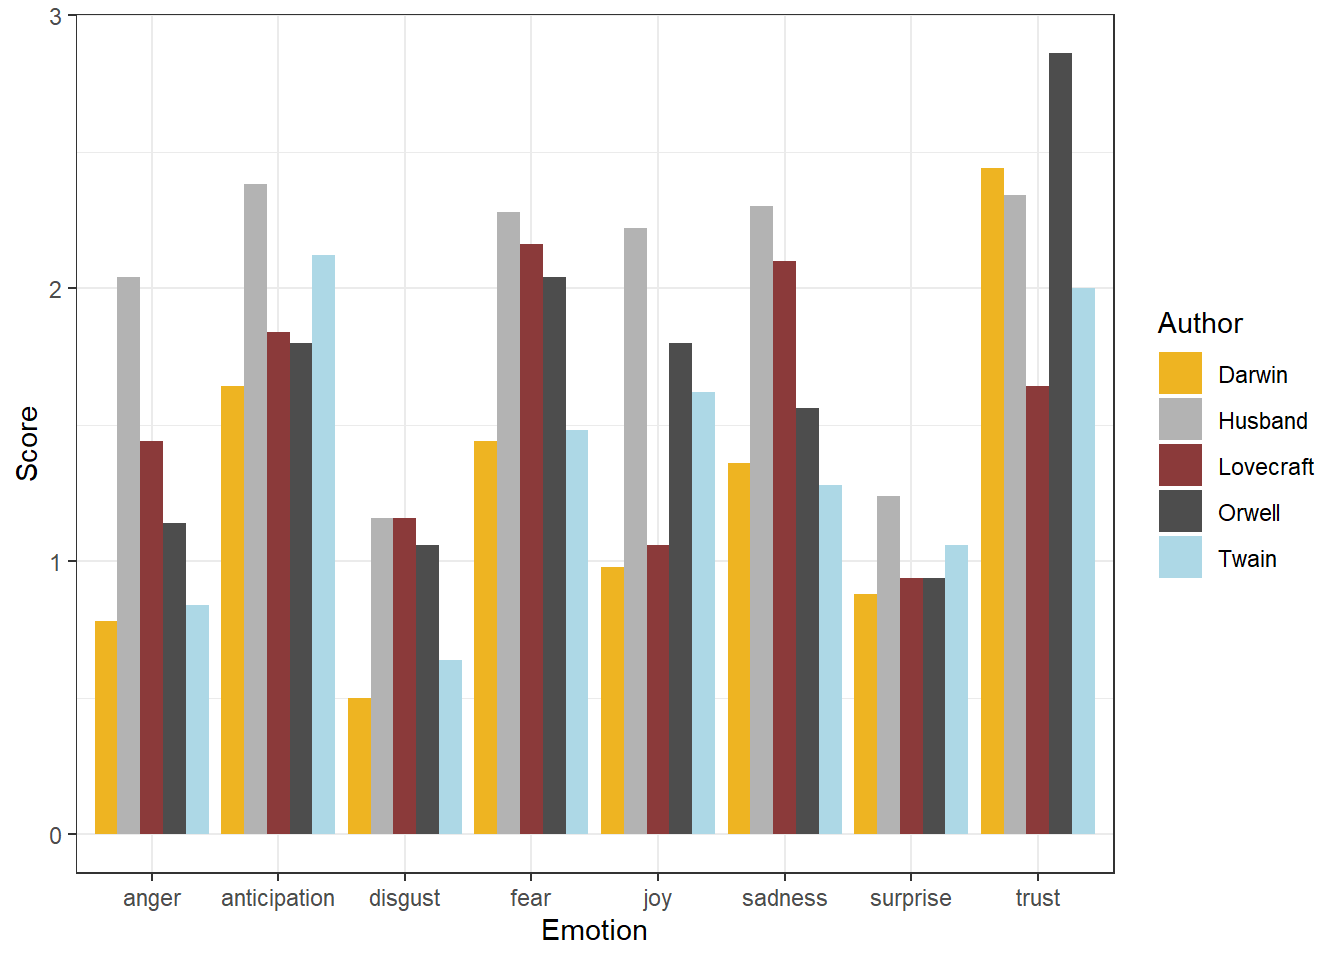
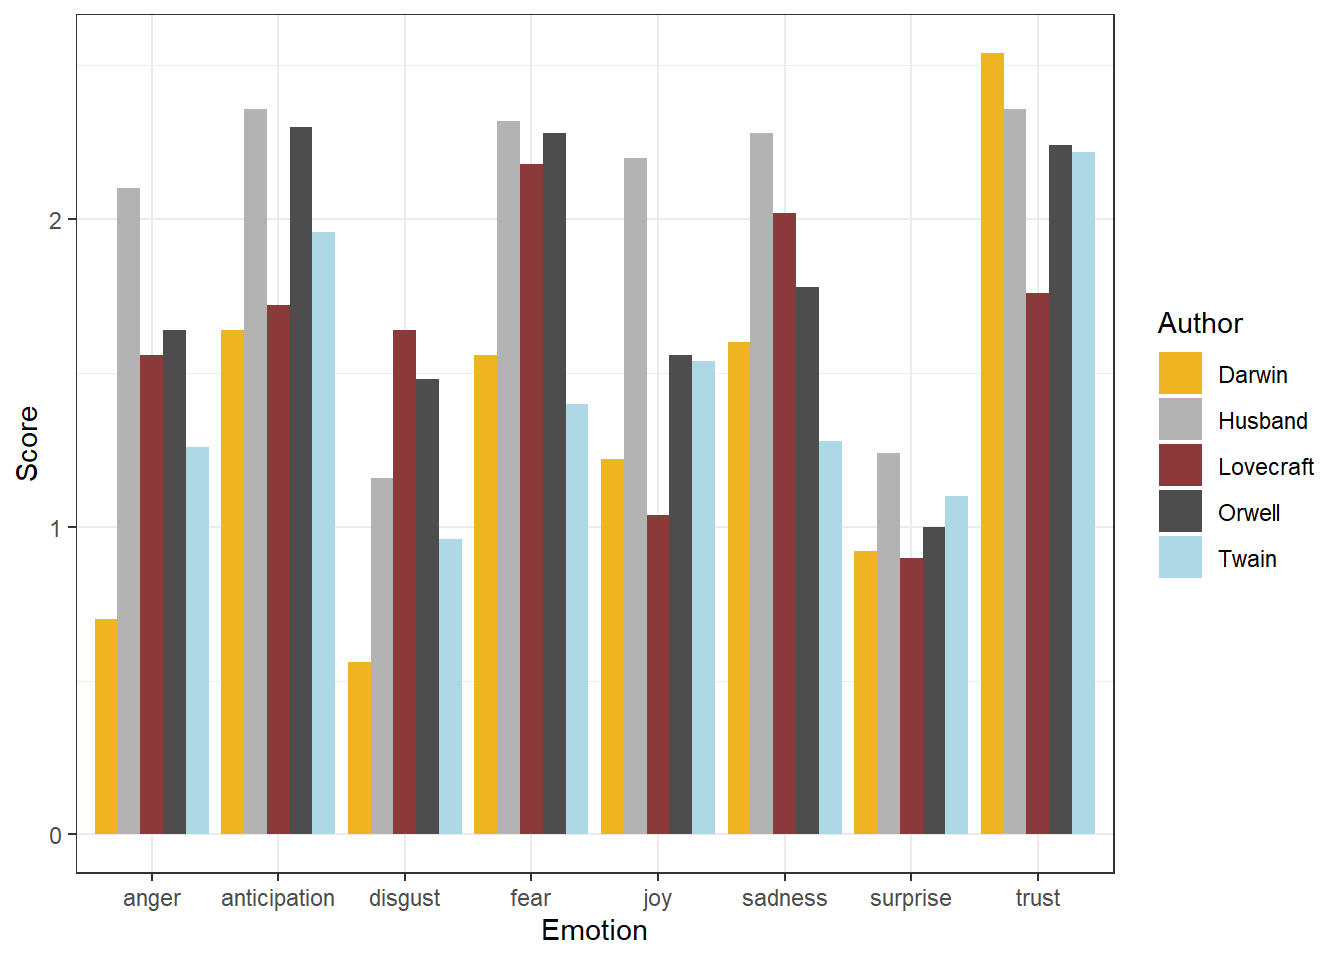
201907124

diff --git a/textanalysis.html b/textanalysis.html
@@ -807,6 +807,162 @@ head(darwin2gramsdf)</code></pre>
 ## 48173    on the       744
 ## 30694 have been       624</code></pre>
 <p>Both N-grams and collocations are not only an important concept in language teaching but they are also fundamental in Text Analysis and many other research areas working with language data. Unfortunately, words that collocate do not have to be immediately adjacent but can also encompass several slots. This is unfortunate because it makes retrieval of collocates substantially more difficult compared with a situation in which we only need to extract words that occur right next to each other.</p>
+<p>In the follwoing, we will extract collocations from Darwin’s “Origin”. In a first step, we will split the Origin into smaller chunks.</p>
+<pre class="r"><code># read in text
+darwinsentences &lt;- readLines(&quot;https://slcladal.github.io/data/origindarwin.txt&quot;) %&gt;%
+  paste(sep = &quot; &quot;, collapse = &quot; &quot;) %&gt;%
+  str_replace_all(&quot; {2,}&quot;, &quot; &quot;) %&gt;%
+  str_replace_all(&quot;([A-Z]{2,} [A-Z]{2,}) ([A-Z][a-z]{1,} )&quot;, &quot;\\1 qwertz\\2&quot;) %&gt;%
+  str_replace_all(&quot;([a-z]{2,}\\.) ([A-Z] {0,1}[a-z]{0,30})&quot;, &quot;\\1qwertz\\2&quot;) %&gt;%
+    str_replace_all(&quot;([a-z]{2,}\\?) ([A-Z] {0,1}[a-z]{0,30})&quot;, &quot;\\1qwertz\\2&quot;) %&gt;%
+  strsplit(&quot;qwertz&quot;)%&gt;%
+  unlist()
+# inspect data
+head(darwinsentences)</code></pre>
+<pre><code>## [1] &quot;THE ORIGIN OF SPECIES BY CHARLES DARWIN AN HISTORICAL SKETCH OF THE PROGRESS OF OPINION ON THE ORIGIN OF SPECIES INTRODUCTION &quot;                                                                                                                                                
+## [2] &quot;When on board H.M.S. &#39;Beagle,&#39; as naturalist, I was much struck with certain facts in the distribution of the organic beings in- habiting South America, and in the geological relations of the present to the past inhabitants of that continent.&quot;                            
+## [3] &quot;These facts, as will be seen in the latter chapters of this volume, seemed to throw some light on the origin of species — that mystery of mysteries, as it has been called by one of our greatest philosophers.&quot;                                                               
+## [4] &quot;On my return home, it occurred to me, in 1837, that something might perhaps be made out on this question by patiently accumulating and reflecting on all sorts of facts which could possibly have any bearing on it.&quot;                                                          
+## [5] &quot;After five years&#39; work I allowed myself to specu- late on the subject, and drew up some short notes; these I enlarged in 1844 into a sketch of the conclusions, which then seemed to me probable; from that period to the present day I have steadily pursued the same object.&quot;
+## [6] &quot;I hope that I may be excused for entering on these personal details, as I give them to show that I have not been hasty in coming to a decision.&quot;</code></pre>
+<p>In a next setp, we will create a matrix that shows cooccurrence of words.</p>
+<pre class="r"><code># convert into corpus
+darwincorpus &lt;- Corpus(VectorSource(darwinsentences))
+# clean corpus
+darwincorpusclean &lt;- darwincorpus %&gt;%
+  tm_map(removePunctuation) %&gt;%
+  tm_map(removeWords, stopwords(kind = &quot;en&quot;)) %&gt;%
+  tm_map(tolower)
+# create document term matrix
+darwindtm &lt;- DocumentTermMatrix(darwincorpusclean, control=list(bounds = list(global=c(1, Inf)), weighting = weightBin))
+# load library
+require(Matrix)
+# convert dtm into sparse matrix
+darwinsdtm &lt;- sparseMatrix(i = darwindtm$i, j = darwindtm$j, 
+                           x = darwindtm$v, 
+                           dims = c(darwindtm$nrow, darwindtm$ncol),
+                           dimnames = dimnames(darwindtm))
+# calculate cooccurrence counts
+coocurrences &lt;- t(darwinsdtm) %*% darwinsdtm
+# convert into matrix
+collocates &lt;- as.matrix(coocurrences)
+# inspect results
+collocates[1:8, 1:5]</code></pre>
+<pre><code>##              charles darwin historical introduction opinion
+## charles            9      1          1            1       1
+## darwin             1      1          1            1       1
+## historical         1      1          4            1       1
+## introduction       1      1          1            7       1
+## opinion            1      1          1            1      10
+## origin             1      1          2            2       1
+## progress           1      1          1            1       1
+## sketch             1      1          1            1       1</code></pre>
+<pre class="r"><code># inspect size of matrix
+ncol(collocates)</code></pre>
+<pre><code>## [1] 10634</code></pre>
+<pre class="r"><code>summary(rowSums(collocates))</code></pre>
+<pre><code>##    Min. 1st Qu.  Median    Mean 3rd Qu.    Max. 
+##     1.0    25.0    49.0   221.9   135.0 28133.0</code></pre>
+<pre class="r"><code># remove terms that do not collocate with other terms
+noncoll &lt;- colnames(collocates)[which(rowSums(collocates) &lt; 5000)]
+# remove non-collocating terms
+collocates &lt;- collocates[!rownames(collocates) %in% noncoll, ]
+collocates &lt;- collocates[, !colnames(collocates) %in% noncoll]
+# create distance matrix
+distmtx &lt;- dist(collocates)
+# activate library
+library(&quot;cluster&quot;)         # activate library
+clustertexts &lt;- hclust(    # hierarchical cluster object
+  distmtx,                 # use data diststudents
+  method=&quot;ward.D2&quot;)         # ward.D as linkage method
+plot(clustertexts,         # plot result as dendrogram
+     hang = .25,           # labels at split
+     main = &quot;&quot;)            # no title</code></pre>
+<p><img src="textanalysis_files/figure-html/coll7-1.png" width="672" /></p>
+<p>We will now use an example of one individual word to show, how collocation strength for individual terms is calculated and displayed as a network.</p>
+<pre class="r"><code># load function for co-occurrence calculation
+source(&quot;rscripts/calculateCoocStatistics.R&quot;)
+# define minimum number of cooccurences
+numberOfCoocs &lt;- 10
+# define term
+coocTerm &lt;- &quot;selection&quot;
+# calculate cooccurence statistics
+coocs &lt;- calculateCoocStatistics(coocTerm, darwinsdtm, measure=&quot;LOGLIK&quot;)
+# show strenght of cooccurence
+print(coocs[1:numberOfCoocs])</code></pre>
+<pre><code>##       natural        theory    variations       effects          acts 
+##    1476.38620     121.48373     112.17318      66.45145      51.64986 
+## modifications        sexual         power        slight        disuse 
+##      45.69396      44.95857      43.80820      42.97196      41.69089</code></pre>
+<p>Now, we will vizualize the collocation network for our example term. Unfortunately, creating a graph object is rather complex.</p>
+<pre class="r"><code># create graph object
+resultGraph &lt;- data.frame(from = character(), to = character(), sig = numeric(0))
+# create data frame
+tmpGraph &lt;- data.frame(from = character(), to = character(), sig = numeric(0))
+# fill data frame to produce the correct number of lines
+tmpGraph[1:numberOfCoocs, 3] &lt;- coocs[1:numberOfCoocs]
+# enter search word into the first column in all lines
+tmpGraph[, 1] &lt;- coocTerm
+# enter co-occurrences into second column
+tmpGraph[, 2] &lt;- names(coocs)[1:numberOfCoocs]
+# enter collocation strength
+tmpGraph[, 3] &lt;- coocs[1:numberOfCoocs]
+# attach data frame to resultGraph
+resultGraph &lt;- rbind(resultGraph, tmpGraph)</code></pre>
+<pre class="r"><code># iterate over most significant numberOfCoocs co-occurrences
+for (i in 1:numberOfCoocs){
+  # calculate co-occurrence strength for term i
+  newCoocTerm &lt;- names(coocs)[i]
+  coocs2 &lt;- calculateCoocStatistics(newCoocTerm, darwinsdtm, measure=&quot;LOGLIK&quot;)
+  # fill temporary graph object
+  tmpGraph &lt;- data.frame(from = character(), to = character(), sig = numeric(0))
+  tmpGraph[1:numberOfCoocs, 3] &lt;- coocs2[1:numberOfCoocs]
+  tmpGraph[, 1] &lt;- newCoocTerm
+  tmpGraph[, 2] &lt;- names(coocs2)[1:numberOfCoocs]
+  tmpGraph[, 3] &lt;- coocs2[1:numberOfCoocs]
+  # append results to the result graph data frame
+  resultGraph &lt;- rbind(resultGraph, tmpGraph[2:length(tmpGraph[, 1]), ])
+}</code></pre>
+<p>Now, we can create a network graph object.</p>
+<pre class="r"><code># load packages
+library(igraph)
+# define graph and type (&quot;F&quot; means &quot;Force Directed&quot;)
+graphNetwork &lt;- graph.data.frame(resultGraph, directed = F)
+# identify nodes with fewer than 2 edges
+graphVs &lt;- V(graphNetwork)[degree(graphNetwork) &lt; 2]
+# removed these edges from graph
+graphNetwork &lt;- delete.vertices(graphNetwork, graphVs) 
+# sssign colors to edges and nodes (searchterm blue, rest orange)
+V(graphNetwork)$color &lt;- ifelse(V(graphNetwork)$name == coocTerm, &#39;cornflowerblue&#39;, &#39;orange&#39;) 
+# Edges with a significance of at least 50% of the maximum significance in the graph are drawn in orange
+halfMaxSig &lt;- max(E(graphNetwork)$sig) * 0.5
+E(graphNetwork)$color &lt;- ifelse(E(graphNetwork)$sig &gt; halfMaxSig, &quot;coral&quot;, &quot;azure3&quot;)
+# disable edges with radius
+E(graphNetwork)$curved &lt;- 0 
+# size the nodes by their degree of networking
+V(graphNetwork)$size &lt;- log(degree(graphNetwork)) * 5
+# all nodes must be assigned a standard minimum-size
+V(graphNetwork)$size[V(graphNetwork)$size &lt; 5] &lt;- 3 
+# edge thickness
+E(graphNetwork)$width &lt;- 1.5</code></pre>
+<p>And finally, we can vizualize the network.</p>
+<pre class="r"><code># Define the frame and spacing for the plot
+par(mai=c(0,0,1,0)) 
+# Finaler Plot
+plot(graphNetwork,              
+     layout = layout.fruchterman.reingold,  # Force Directed Layout 
+     main = paste(&quot;Cooccurrence network for&quot;, &quot; \&quot;&quot;, coocTerm, &quot;\&quot;&quot;),
+     vertex.label.family = &quot;sans&quot;,
+     vertex.label.cex = .75,
+     vertex.shape = &quot;circle&quot;,
+     vertex.label.dist = 2,           # Labels of the nodes moved slightly
+     vertex.frame.color = &#39;darkolivegreen&#39;,
+     vertex.label.color = &#39;black&#39;,      # Color of node names
+     vertex.label.font = 2,         # Font of node names
+     vertex.label = V(graphNetwork)$name,       # node names
+     vertex.label.cex = .75 # font size of node names 
+)</code></pre>
+<p><img src="textanalysis_files/figure-html/coll12-1.png" width="672" /></p>
 </div>
 <div id="tagging-and-annotation" class="section level1">
 <h1><span class="header-section-number">6</span> Tagging and Annotation</h1>
@@ -828,8 +984,9 @@ text &lt;- text[5] %&gt;%
 # inspect data
 str(text)</code></pre>
 <pre><code>##  chr &quot;By chance, Harry encounters the man who gave him the book, just as the man has attended a funeral. He inquires &quot;| __truncated__</code></pre>
-<pre class="r"><code># load libraries
+<pre class="r"><code># load function
 source(&quot;https://slcladal.github.io/rscripts/POStagObject.r&quot;) # for pos-tagging objects in R
+# load libraries
 library(NLP)
 library(openNLP)
 library(openNLPmodels.en)
@@ -1093,14 +1250,14 @@ husbandemo &lt;- get_nrc_sentiment(husband)
 # inspect data
 head(darwinemo)</code></pre>
 <pre><code>##   anger anticipation disgust fear joy sadness surprise trust negative
-## 1     0            0       0    0   0       0        0     0        0
+## 1     0            1       0    0   0       0        0     0        0
 ## 2     0            0       0    0   0       0        0     0        0
 ## 3     0            0       0    0   0       0        0     0        0
 ## 4     0            0       0    0   0       0        0     0        0
 ## 5     0            0       0    0   0       0        0     0        0
 ## 6     0            0       0    0   0       0        0     0        0
 ##   positive
-## 1        0
+## 1        1
 ## 2        0
 ## 3        0
 ## 4        0
@@ -1122,17 +1279,17 @@ rownames(emo) &lt;- gsub(&quot;emos&quot;, &quot;&quot;, rownames(emo))
 # inspect data
 head(emo)</code></pre>
 <pre><code>##           anger anticipation disgust fear  joy sadness surprise trust
-## darwin     0.78         1.64    0.50 1.44 0.98    1.36     0.88  2.44
-## twain      0.84         2.12    0.64 1.48 1.62    1.28     1.06  2.00
-## orwell     1.14         1.80    1.06 2.04 1.80    1.56     0.94  2.86
-## lovecraft  1.44         1.84    1.16 2.16 1.06    2.10     0.94  1.64
-## husband    2.04         2.38    1.16 2.28 2.22    2.30     1.24  2.34
+## darwin     0.70         1.64    0.56 1.56 1.22    1.60     0.92  2.54
+## twain      1.26         1.96    0.96 1.40 1.54    1.28     1.10  2.22
+## orwell     1.64         2.30    1.48 2.28 1.56    1.78     1.00  2.24
+## lovecraft  1.56         1.72    1.64 2.18 1.04    2.02     0.90  1.76
+## husband    2.10         2.36    1.16 2.32 2.20    2.28     1.24  2.36
 ##           negative positive
-## darwin        2.78     4.12
-## twain         2.46     3.16
-## orwell        3.54     4.28
-## lovecraft     4.26     2.90
-## husband       4.36     4.48</code></pre>
+## darwin        2.82     4.24
+## twain         2.40     3.42
+## orwell        3.82     3.92
+## lovecraft     4.24     3.00
+## husband       4.38     4.46</code></pre>
 <pre class="r"><code>#convert into data frame
 emo &lt;- as.data.frame(emo)
 # add author column
@@ -1144,11 +1301,11 @@ emol &lt;- gather(emo, Emotion, Score, anger:positive, factor_key=TRUE)
 # inspect data
 head(emol)</code></pre>
 <pre><code>##      Author      Emotion Score
-## 1    Darwin        anger  0.78
-## 2     Twain        anger  0.84
-## 3    Orwell        anger  1.14
-## 4 Lovecraft        anger  1.44
-## 5   Husband        anger  2.04
+## 1    Darwin        anger  0.70
+## 2     Twain        anger  1.26
+## 3    Orwell        anger  1.64
+## 4 Lovecraft        anger  1.56
+## 5   Husband        anger  2.10
 ## 6    Darwin anticipation  1.64</code></pre>
 <pre class="r"><code># load library
 library(ggplot2)
